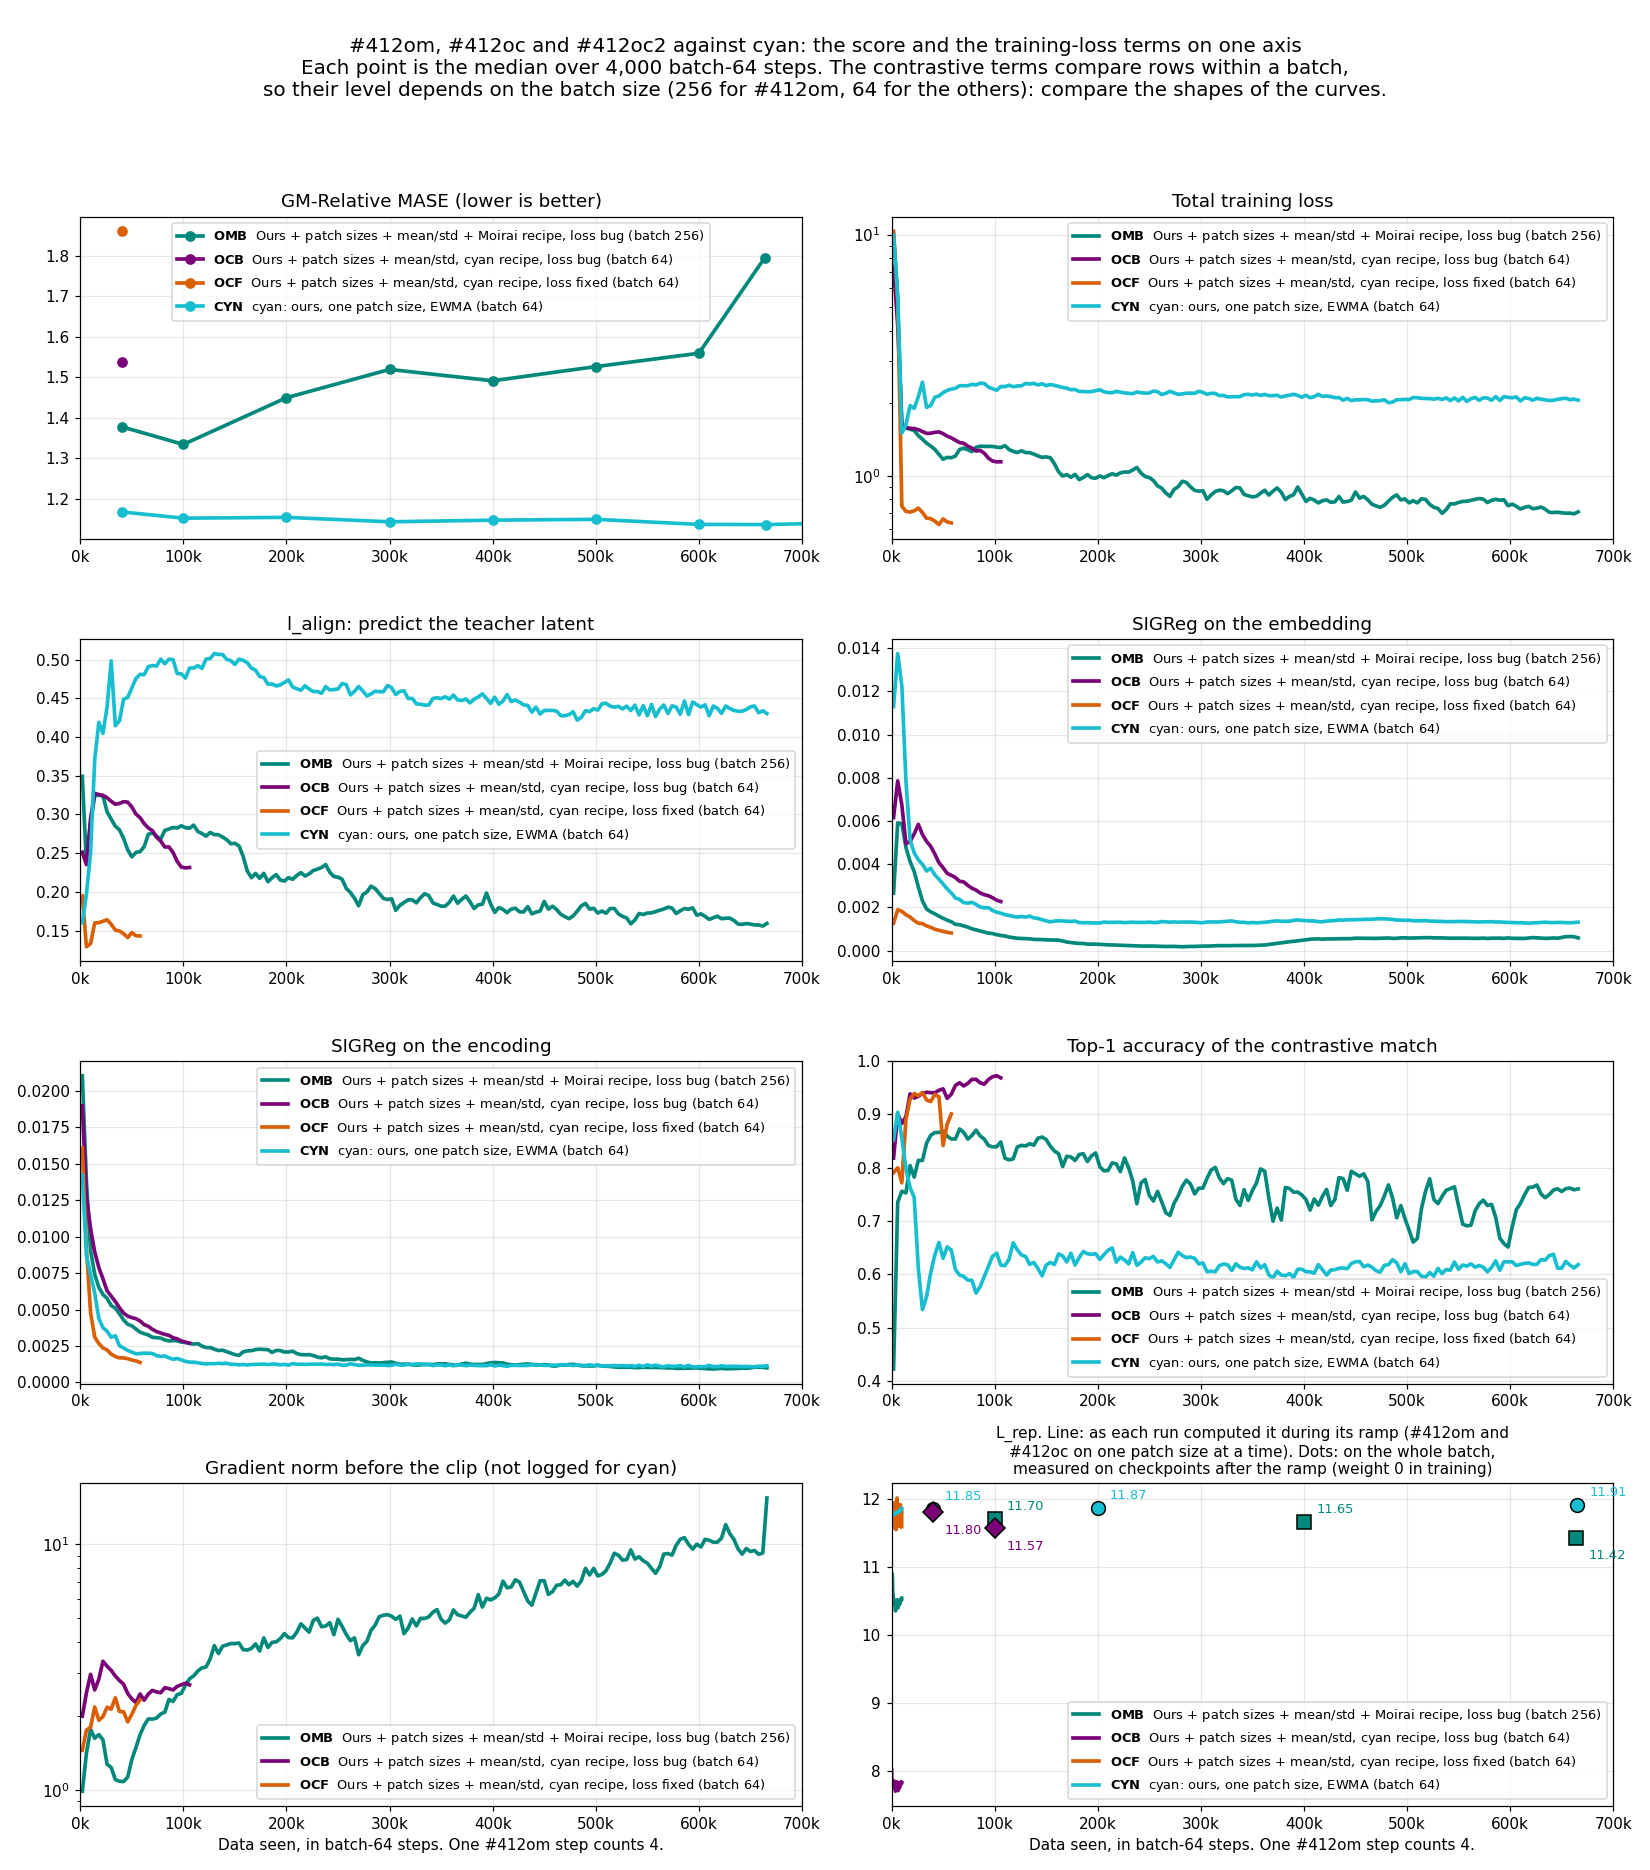
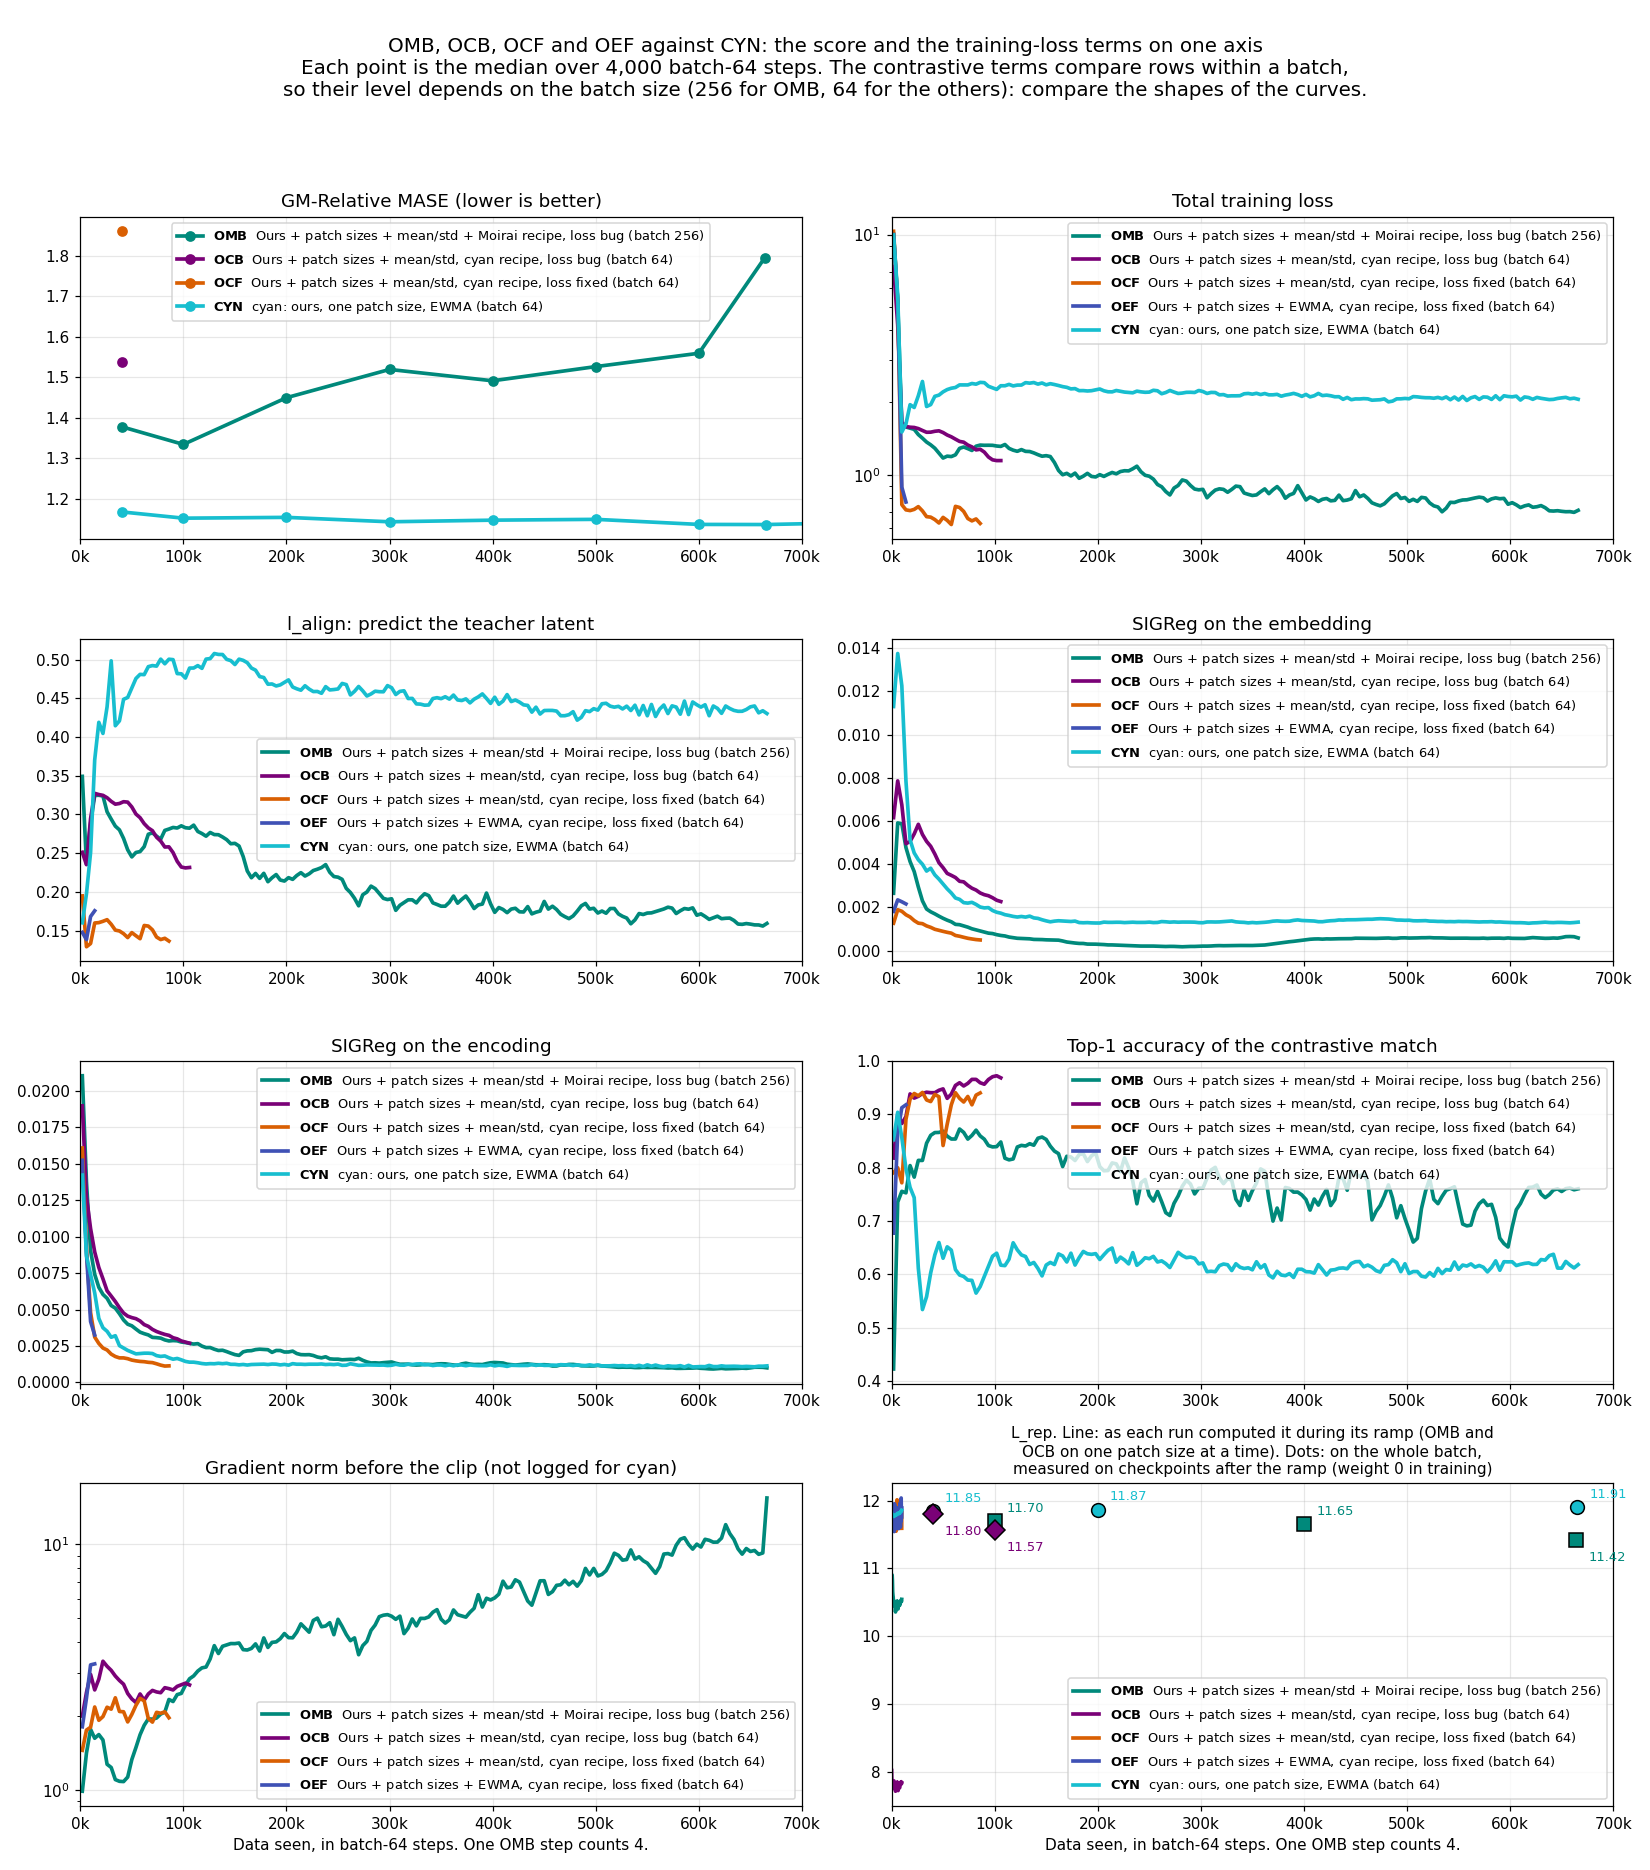
exp(#412): L_rep during its ramp, loss bug against loss fixed
A new figure shows L_rep while its weight is above 0 (the first 10,000
batch-64 steps of data) for OMB and OCB (loss bug) and OCF and OEF
(loss fixed). OEF gets its colour (indigo) and enters the loss-terms
figure, whose texts now name the runs by code.

diff --git a/reports/2026-09-06_moirai_small_size/scripts/plot_loss_terms_412.py b/reports/2026-09-06_moirai_small_size/scripts/plot_loss_terms_412.py
@@ -42,6 +42,7 @@ SOURCES = {
                 (10, 25, 50, 75, 100, 125, 150, 166)], "cf412om_k3_losses.csv", 4),
     "cf412oc": ([f"cf-412oc/leg_{k}k" for k in (40, 100, 200)], "cf412oc_k3_losses.csv", 1),
     "cf412oc2": ([f"cf-412oc2/leg_{k}k" for k in (40, 100, 200)], "cf412oc2_k3_losses.csv", 1),
+    "cf412oe2": ([f"cf-412oe2/leg_{k}k" for k in (40, 100, 200)], "cf412oe2_k3_losses.csv", 1),
     CYAN: ([f"{CYAN}/arm6_v2_combab_alignT/leg_665k"],
            "cf393_arm6_v2_combab_alignT_cf373k3_cf412_" + CYAN + "_losses.csv", 1),
 }
@@ -49,6 +50,7 @@ TERMS = ["loss", "l_align", "sigreg_e", "sigreg_h", "top1", "grad_norm"]
 LABEL = {"cf412om": "Ours + patch sizes + mean/std + Moirai recipe, loss bug (batch 256)",
          "cf412oc": "Ours + patch sizes + mean/std, cyan recipe, loss bug (batch 64)",
          "cf412oc2": "Ours + patch sizes + mean/std, cyan recipe, loss fixed (batch 64)",
+         "cf412oe2": "Ours + patch sizes + EWMA, cyan recipe, loss fixed (batch 64)",
          CYAN: "cyan: ours, one patch size, EWMA (batch 64)"}
 LABEL = {run: tagged(run, text) for run, text in LABEL.items()}
 PANEL = {"gm": "GM-Relative MASE (lower is better)",
@@ -58,8 +60,8 @@ PANEL = {"gm": "GM-Relative MASE (lower is better)",
          "sigreg_h": "SIGReg on the encoding",
          "top1": "Top-1 accuracy of the contrastive match",
          "grad_norm": "Gradient norm before the clip (not logged for cyan)",
-         "l_rep": "L_rep. Line: as each run computed it during its ramp (#412om and\n"
-                  "#412oc on one patch size at a time). Dots: on the whole batch,\n"
+         "l_rep": "L_rep. Line: as each run computed it during its ramp (OMB and\n"
+                  "OCB on one patch size at a time). Dots: on the whole batch,\n"
                   "measured on checkpoints after the ramp (weight 0 in training)"}
 
 
@@ -168,11 +170,11 @@ def plot():
         ax.set_xticks(ticks)
         ax.set_xticklabels([f"{t // 1000}k" for t in ticks])
     for ax in axes[-1]:
-        ax.set_xlabel("Data seen, in batch-64 steps. One #412om step counts 4.")
-    fig.suptitle("#412om, #412oc and #412oc2 against cyan: the score and the training-loss terms on one axis\n"
+        ax.set_xlabel("Data seen, in batch-64 steps. One OMB step counts 4.")
+    fig.suptitle("OMB, OCB, OCF and OEF against CYN: the score and the training-loss terms on one axis\n"
                  "Each point is the median over 4,000 batch-64 steps. The contrastive terms "
                  "compare rows within a batch,\nso their level depends on the batch size "
-                 "(256 for #412om, 64 for the others): compare the shapes of the curves.",
+                 "(256 for OMB, 64 for the others): compare the shapes of the curves.",
                  fontsize=13)
     fig.tight_layout(rect=(0, 0, 1, 0.95))
     fig.savefig(OUT, dpi=110)

diff --git a/reports/2026-09-06_moirai_small_size/scripts/plot_lrep_ramp.py b/reports/2026-09-06_moirai_small_size/scripts/plot_lrep_ramp.py
@@ -1,0 +1,55 @@
+"""L_rep while its weight ramps from 1 to 0: the first 10,000 batch-64 steps
+of data of OMB and OCB (loss bug) and of OCF and OEF (loss fixed). The owner
+asked for it on 10-02. Reads the per-step loss CSVs on the elisa mirror, as
+plot_loss_terms_412.py does. Usage: python3 scripts/plot_lrep_ramp.py
+"""
+import statistics
+from collections import defaultdict
+
+import matplotlib
+matplotlib.use("Agg")
+import matplotlib.pyplot as plt
+
+from plot_loss_terms_412 import LABEL, SOURCES, STUDY, number, read_steps
+from run_style import colour, line
+
+RUNS = ["cf412om", "cf412oc", "cf412oc2", "cf412oe2"]
+END, BIN = 10000, 100  # batch-64 steps of data
+OUT = STUDY / "plots" / "lrep_ramp_bug_vs_fixed.png"
+
+
+def ramp_curve(run):
+    """Median L_rep per BIN batch-64 steps of data, while its weight is above 0."""
+    folders, name, scale = SOURCES[run]
+    bins = defaultdict(list)
+    for step, row in read_steps(folders, name).items():
+        value = number(row.get("l_rep"))
+        if value is not None and step * scale <= END:
+            bins[step * scale // BIN].append(value)
+    keys = sorted(bins)
+    return [(b + 0.5) * BIN for b in keys], [statistics.median(bins[b]) for b in keys]
+
+
+def main():
+    fig, ax = plt.subplots(figsize=(11, 6.8))
+    for run in RUNS:
+        xs, ys = ramp_curve(run)
+        if xs:
+            ax.plot(xs, ys, line(run), color=colour(run), lw=2.4, label=LABEL[run])
+    ax.set_xlim(0, END)
+    ax.set_xlabel("Data seen, in batch-64 steps (one OMB step counts 4). "
+                  "The weight of L_rep falls from 1 to 0 over this window.")
+    ax.set_ylabel("L_rep, unweighted (median per 100 batch-64 steps)")
+    ax.set_title("L_rep while its weight is above 0\n"
+                 "Loss bug: the mean over the patch sizes of the L_rep of each size's own rows. "
+                 "Loss fixed: one L_rep over every row of the batch.\n"
+                 "L_rep takes its negatives from the rows it compares, so its level depends "
+                 "on how many rows it reads.", fontsize=11)
+    ax.grid(alpha=0.3)
+    ax.legend(fontsize=10, loc="best")
+    fig.tight_layout()
+    fig.savefig(OUT, dpi=130)
+    print(f"wrote {OUT}")
+
+
+main()

diff --git a/reports/2026-09-06_moirai_small_size/scripts/run_style.py b/reports/2026-09-06_moirai_small_size/scripts/run_style.py
@@ -19,6 +19,7 @@ STYLE = {
     "cf412om": ("#00897b", OURS),
     "cf412oc": ("#7a0177", OURS),
     "cf412oc2": ("#d95f02", OURS),
+    "cf412oe2": ("#3f51b5", OURS),
     "cf415_moirai": ("#8c564b", MOIRAI),
     "cf415_moirai_native": ("#8c564b", ":"),
     "cf419_moirai_native": ("#9a9a00", MOIRAI),
